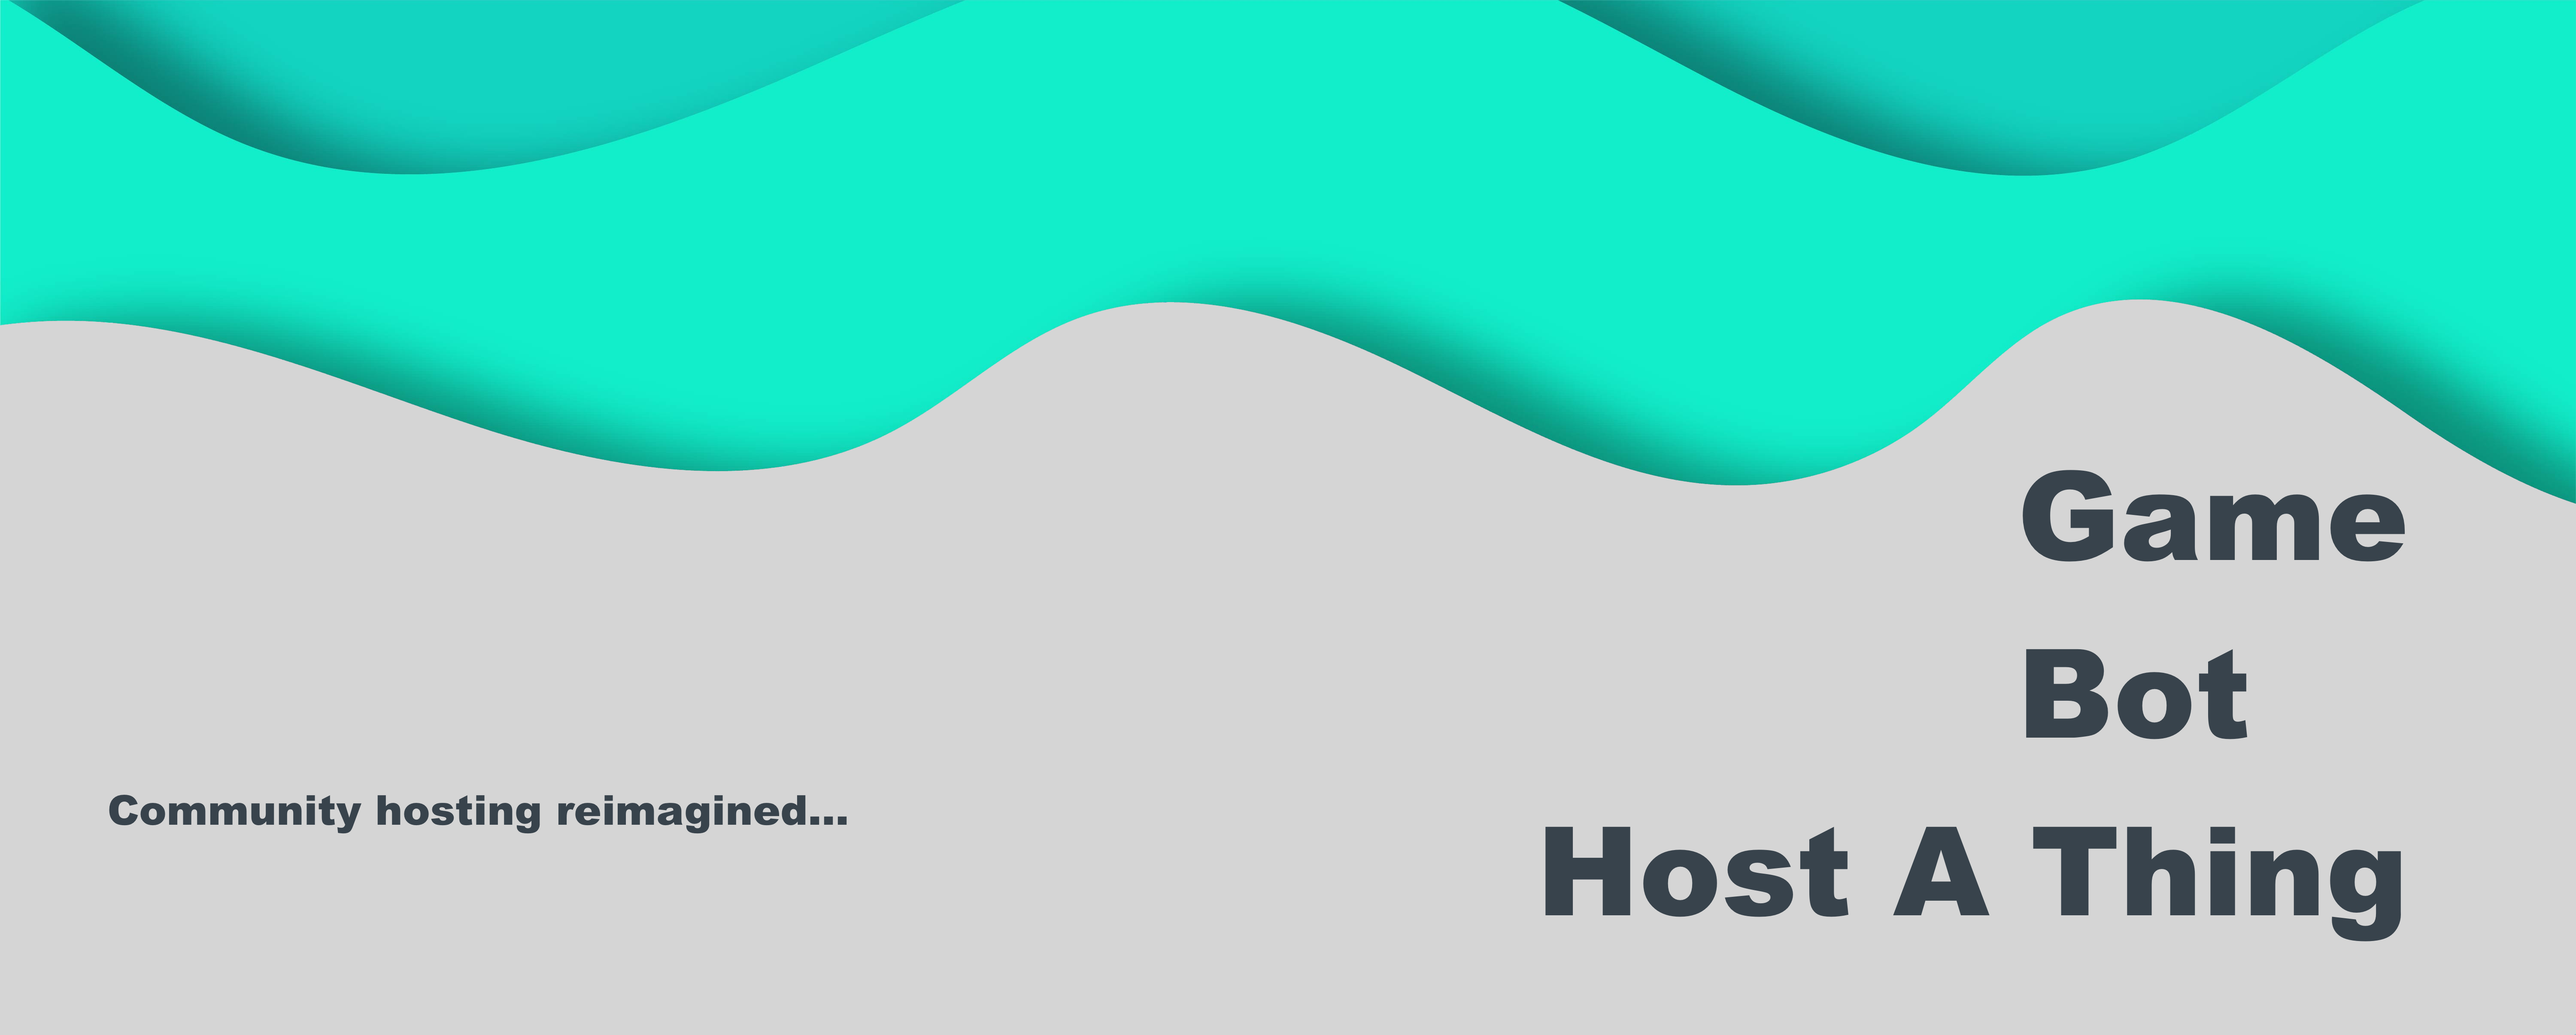
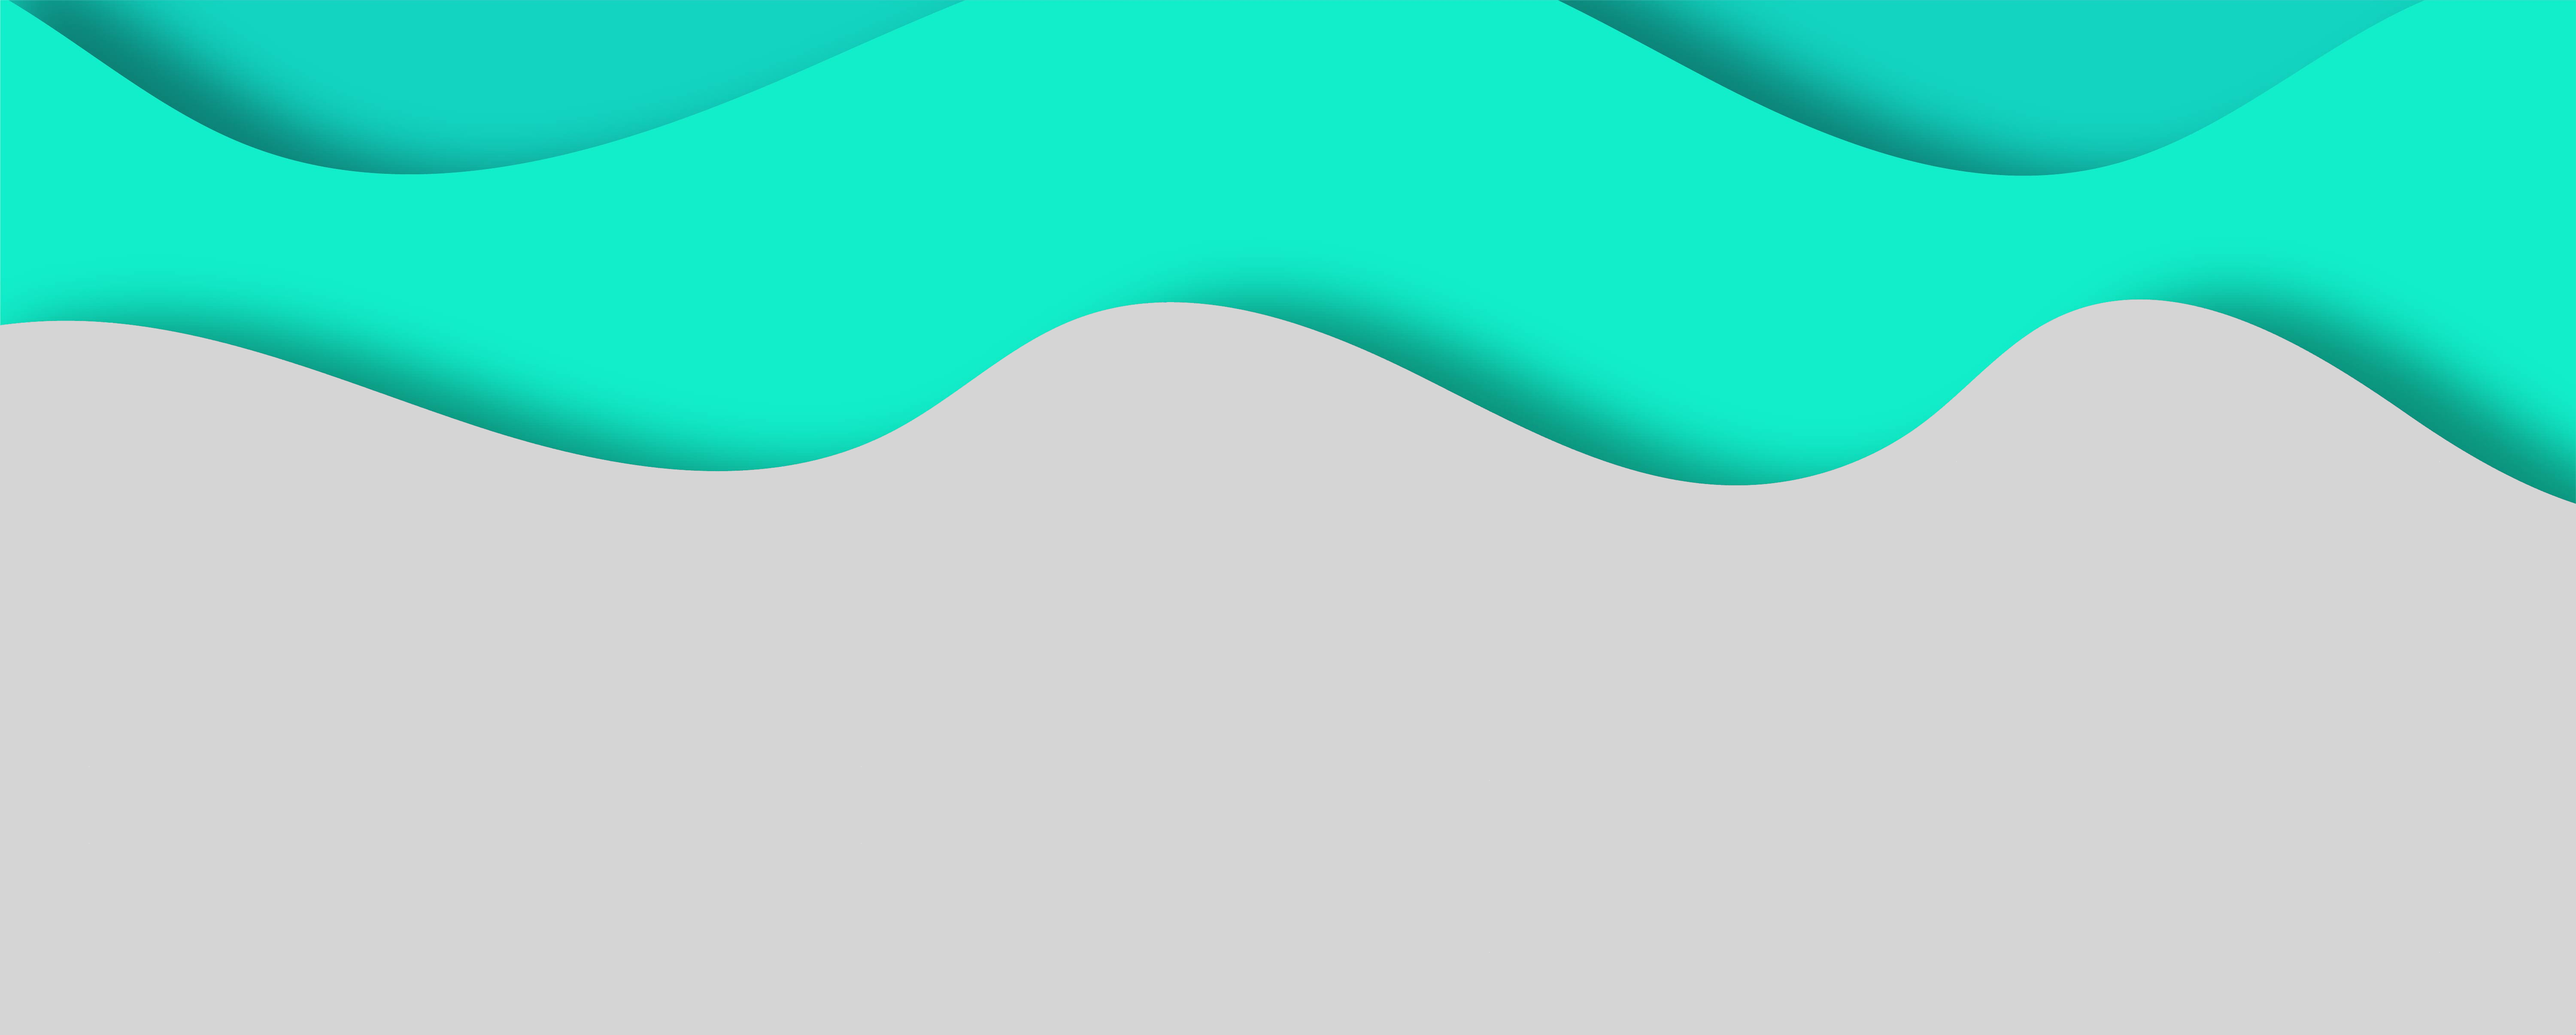
Simplify

diff --git a/_layouts/splash_home.html b/_layouts/splash_home.html
@@ -11,7 +11,7 @@ layout: default
 <div id="main" role="main">
     {{ content }}
 
-    <h3 class="archive__subtitle">{{ site.data.ui-text[site.locale].recent_posts | default: "Recent Posts" }}</h3>
+  <!--  <h3 class="archive__subtitle">{{ site.data.ui-text[site.locale].recent_posts | default: "Recent Posts" }}</h3>
 
     {% if paginator %}
       {% assign posts = paginator.posts %}
@@ -26,5 +26,5 @@ layout: default
       {% endfor %}
     </div>
     
-    {% include paginator.html %}
+    {% include paginator.html %} -->
   </div>

diff --git a/_pages/home.md b/_pages/home.md
@@ -2,7 +2,7 @@
 layout: splash_home
 permalink: /
 title: Host A Thing
-excerpt: "Host your thing!"
+excerpt: "Community hosting reimagined..."
 header:
   #overlay_color: "#f21368"
   overlay_filter: "0.25"
